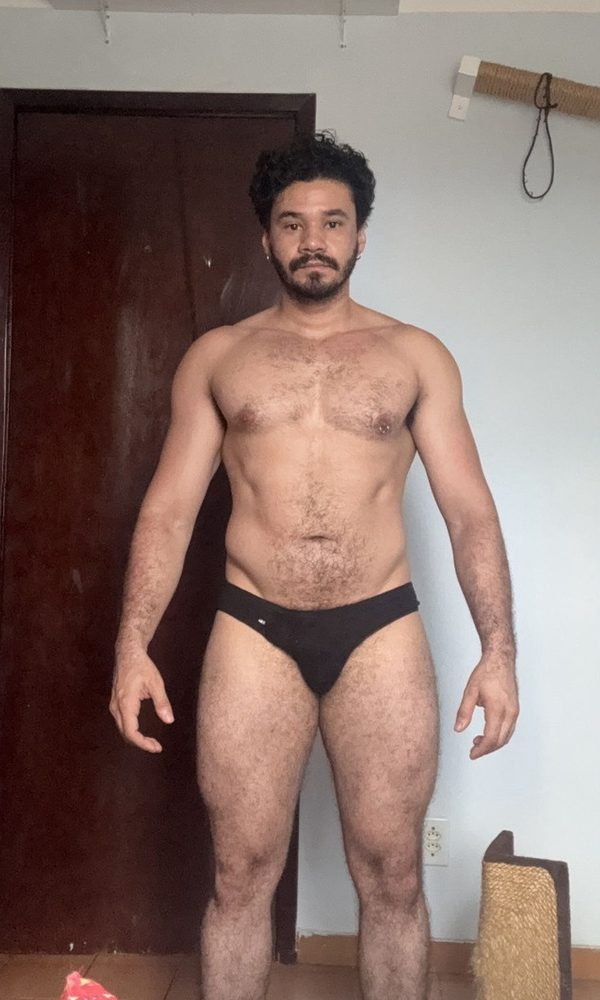
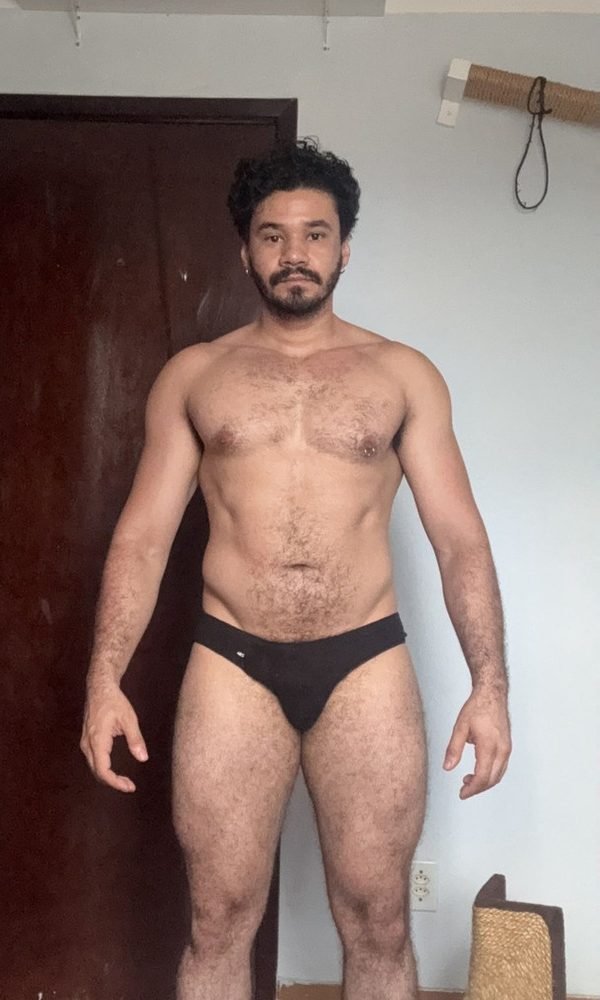
Centraliza o antes e depois 13 e fecha a grade de miniaturas
A grade escolhe 3 ou 4 colunas e amplia a primeira miniatura quando a conta não fecha, pra não sobrar foto sozinha na última linha.

diff --git a/index.html b/index.html
@@ -318,8 +318,11 @@
     .hero-copy .stat-row, .hero-copy .cta-wrap{justify-content:flex-start;}
     .gallery{grid-template-columns:360px 1fr; max-width:820px; column-gap:32px; row-gap:14px; align-items:start; grid-template-rows:auto 1fr;}
     .gallery .ba{grid-row:span 2;}
-    .ba-thumbs{display:grid; grid-template-columns:repeat(3,1fr); gap:10px; margin:0; padding:0; overflow:visible;}
+    .ba-thumbs{display:grid; grid-template-columns:repeat(var(--cols,3),1fr); grid-auto-flow:dense; gap:10px; margin:0; padding:0; overflow:visible;}
     .ba-thumb{height:auto; aspect-ratio:1;}
+    /* o JS amplia a primeira miniatura quando a conta não fecha, pra grade não deixar linha incompleta */
+    .ba-thumb.destaque{grid-column:span 2; grid-row:span 2;}
+    .ba-thumb.larga{grid-column:span 2; aspect-ratio:auto;}
     .hero-name{text-align:center;}
     .sticky-cta{display:none;}
     footer{padding-block:36px 44px;}
@@ -633,6 +636,17 @@ var reduceMotion = window.matchMedia('(prefers-reduced-motion: reduce)').matches
     }
     hintRaf = requestAnimationFrame(frame);
   }
+
+  // Grade sem linha incompleta: escolhe 3 ou 4 colunas e, se preciso, amplia a primeira miniatura
+  (function(){
+    var n = thumbs.length, cols = [3, 4], extras = [[0, ''], [3, 'destaque'], [1, 'larga']];
+    for (var e = 0; e < extras.length; e++) for (var c = 0; c < cols.length; c++) {
+      if ((n + extras[e][0]) % cols[c]) continue;
+      document.getElementById('ba-thumbs').style.setProperty('--cols', cols[c]);
+      if (extras[e][1]) thumbs[0].classList.add(extras[e][1]);
+      return;
+    }
+  })();
 
   thumbs.forEach(function(btn){
     btn.addEventListener('click', function(){
